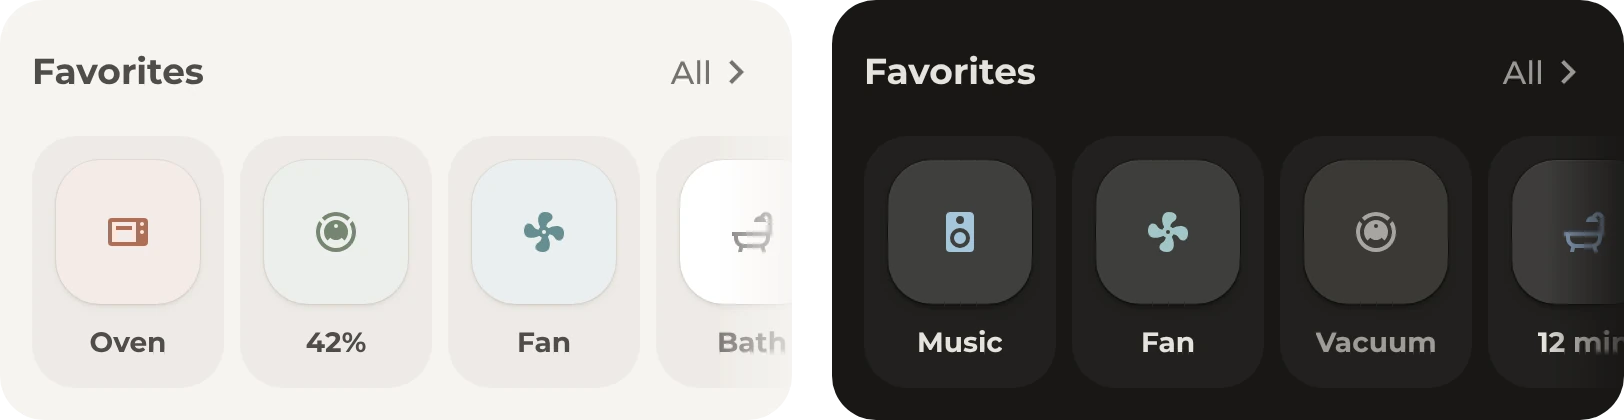
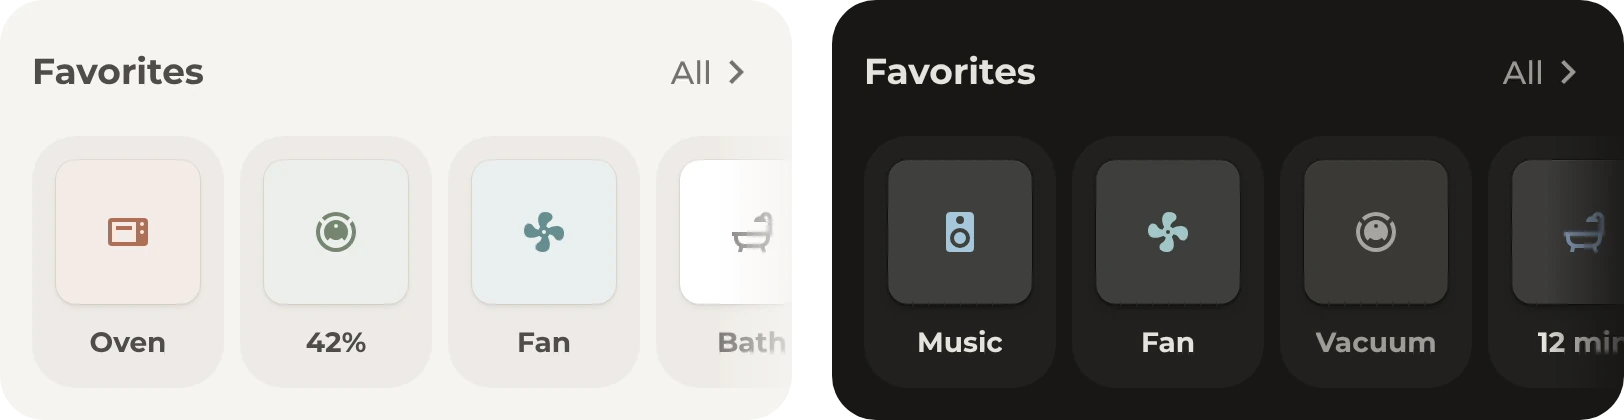
A dot before the brightness marks the active scene, and box fields follow the corner rule
- Button: the active box with colors keeps its fill and its field, and a small dot
  stands before the line under its name, as the dot on a room card: a 10 px circle
  in a 12 px space, 8 px from the text, in the lamp color at 70 %. The badge is gone.
- A box's field takes the box's radius less the 12 px between them, 10 px, as the
  theme's corner rule says for a shape inside another.

diff --git a/CHANGELOG.md b/CHANGELOG.md
@@ -102,7 +102,7 @@ These changes are in the `next` branch and come with the next release.
 - `active` also matches the entity that a button's tap targets.
 - Each button can have its own `name`, `icon`, `color`, `name_color`, `background` and `order` under an `origami_button` key. Its `color` is also its lamp color while it is lit.
 - A lit button is tinted in its own lamp color, such as the state color of its entity, instead of always the card's.
-- A button with `content_layout: icon-top` is a box like a tile, with its icon in a field above its name, 12 px around the field, 14 px above the text and 18 px below it, and the boxes in a row share one width. A box's name is bold. A lit box tints its field in its own color, as a lit tile does, and a box whose field holds a picture or colors gets a small badge with a check in its field's corner instead. A button's own `field` fills the field with a picture or a gradient instead of the icon, and its `label` adds a second line under the name, such as a scene's brightness. Both also work with `labels: below`.
+- A button with `content_layout: icon-top` is a box like a tile, with its icon in a field above its name, 12 px around the field, 14 px above the text and 18 px below it, and the boxes in a row share one width. A box's name is bold. A lit box tints its field in its own color, as a lit tile does, and a box whose field holds a picture or colors gets a small dot before the line under its name instead. The field's corners are the box's less the 12 px between them. A button's own `field` fills the field with a picture or a gradient instead of the icon, and its `label` adds a second line under the name, such as a scene's brightness. Both also work with `labels: below`.
 - A button with `css_class: divider` is a short line between two buttons.
 - The active segment of a bar or a small switch has the fill of an active button with `active_style: toggle`, and it casts the chip shadow.
 - On a button card, a lit button has the tint of the card's lit icon. On a tile, the buttons have the card background and the chip shadow, as keys do.
@@ -154,7 +154,7 @@ These changes are in the `next` branch and come with the next release.
 - The pop-ups no longer set `shadow_opacity`, because Popup gives every pop-up the theme's shadow.
 - The navbar follows the rules of the Bubble cards. A line along the bottom of the now playing card shows how far the track has played.
 - The favorites come in two versions with the same favorites: a row of boxes that scrolls sideways, each with its icon and a short name, like the scenes in the lights pop-up, and a grid of tiles for a larger screen. The README shows both.
-- The lights pop-up shows how many lamps are on and since when. Each scene shows its colors in a rounded square, with the theme's corners, and its brightness under its name, and a small badge with a check marks the active scene.
+- The lights pop-up shows how many lamps are on and since when. Each scene shows its colors in a rounded square, with the theme's corners, and its brightness under its name, and a small dot before its brightness marks the active scene.
 - The weather card shows the forecast for the week and a two-story house whose rooms light up and show their temperature. Rain and snow fall in front of the house, and its images load from the repository, so a home needs no files of its own.
 
 ### Bug fixes

diff --git a/bubble_card/README.md b/bubble_card/README.md
@@ -940,7 +940,7 @@ Each button can have an `origami_button` key with `name`, `icon`, `color`, `name
     background: var(--tint)
 ```
 
-With `content_layout: icon-top` or `icon-bottom`, a button is a box like a tile, with its icon in a field above or below its name, as the scenes in the [lights pop-up](../dashboard/lights/README.md) and the [favorites](../dashboard/favorites/README.md). The field has 12 px of the box around it, the name stands 14 px below the field, and the last line ends 18 px above the box's edge. The boxes in a row share one width. A box's name is bold, as a tile's is. A highlighted box keeps its fill, and its field is tinted in the button's own color, as a lit tile's icon is. A box whose field holds a picture or colors keeps them and its fill, and a small round badge with a check in the field's top corner marks it instead, in the card background with the chip shadow, as the badges on the navigation bar. With `background: false`, the box and the field have no fill.
+With `content_layout: icon-top` or `icon-bottom`, a button is a box like a tile, with its icon in a field above or below its name, as the scenes in the [lights pop-up](../dashboard/lights/README.md) and the [favorites](../dashboard/favorites/README.md). The field has 12 px of the box around it, the name stands 14 px below the field, and the last line ends 18 px above the box's edge. The boxes in a row share one width. A box's name is bold, as a tile's is. A highlighted box keeps its fill, and its field is tinted in the button's own color, as a lit tile's icon is. A box whose field holds a picture or colors keeps them and its fill, and a small dot before the line under the name marks it instead, as the dot on a room card, in the lamp color. With `background: false`, the box and the field have no fill.
 
 A button's own `order` moves it in the row, such as `-1` to the front, and a map from its state moves it only in those states. In a box or with `labels: below`, its own `field` fills the field with a picture or colors instead of the icon, such as a recipe photo or a scene's colors, and its own `label` is a second line under the name, such as a scene's brightness. A gradient needs quotes, because YAML reads `#` as the start of a comment:
 

diff --git a/dashboard/lights/README.md b/dashboard/lights/README.md
@@ -17,7 +17,7 @@ All lamps of a room at once or each one on its own, and the room's scenes.
 
 ## Optional
 
-- **Scenes.** For a room with [scenes](https://www.home-assistant.io/docs/scene/): a box for each scene with its colors, its name and its brightness, starting with the scene for the time of day. While a lamp is on, a small badge with a check marks the scene turned on last. Change the buttons in the group **Scenes** to the room's scenes, and list the same scenes under `active`. Without scenes, delete the card with the scenes.
+- **Scenes.** For a room with [scenes](https://www.home-assistant.io/docs/scene/): a box for each scene with its colors, its name and its brightness, starting with the scene for the time of day. While a lamp is on, a small dot before its brightness marks the scene turned on last. Change the buttons in the group **Scenes** to the room's scenes, and list the same scenes under `active`. Without scenes, delete the card with the scenes.
 
 > [!TIP]
 > A scene's `field` is a gradient of its colors and its `label` its brightness, such as `45 %`, written as the slider writes it. `start` names a `css_class` for each time of day, so the row begins with the scene that fits. A scene without a `field` shows its icon.
